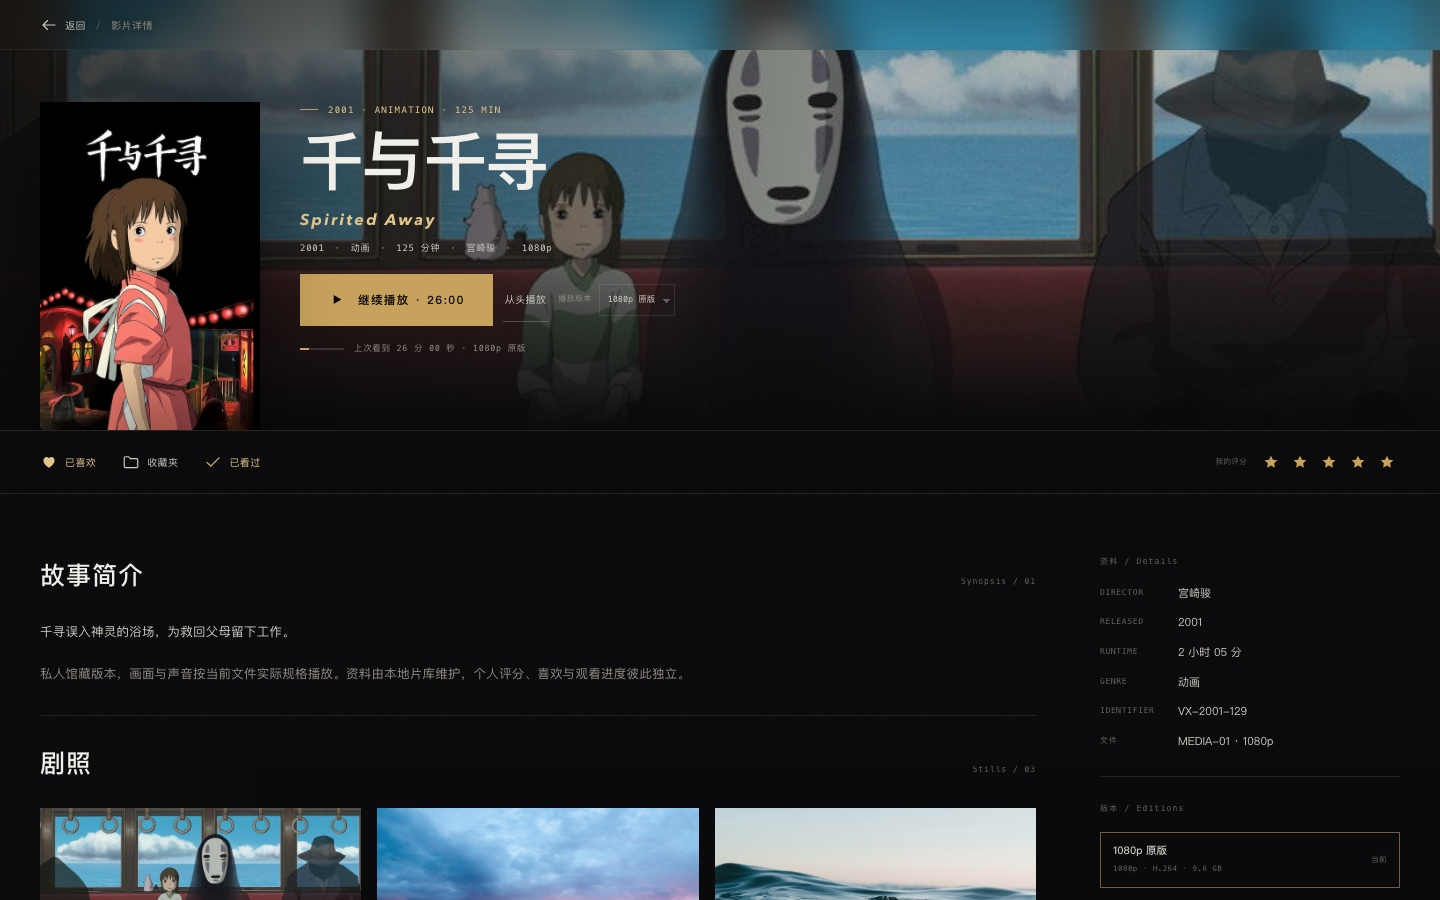
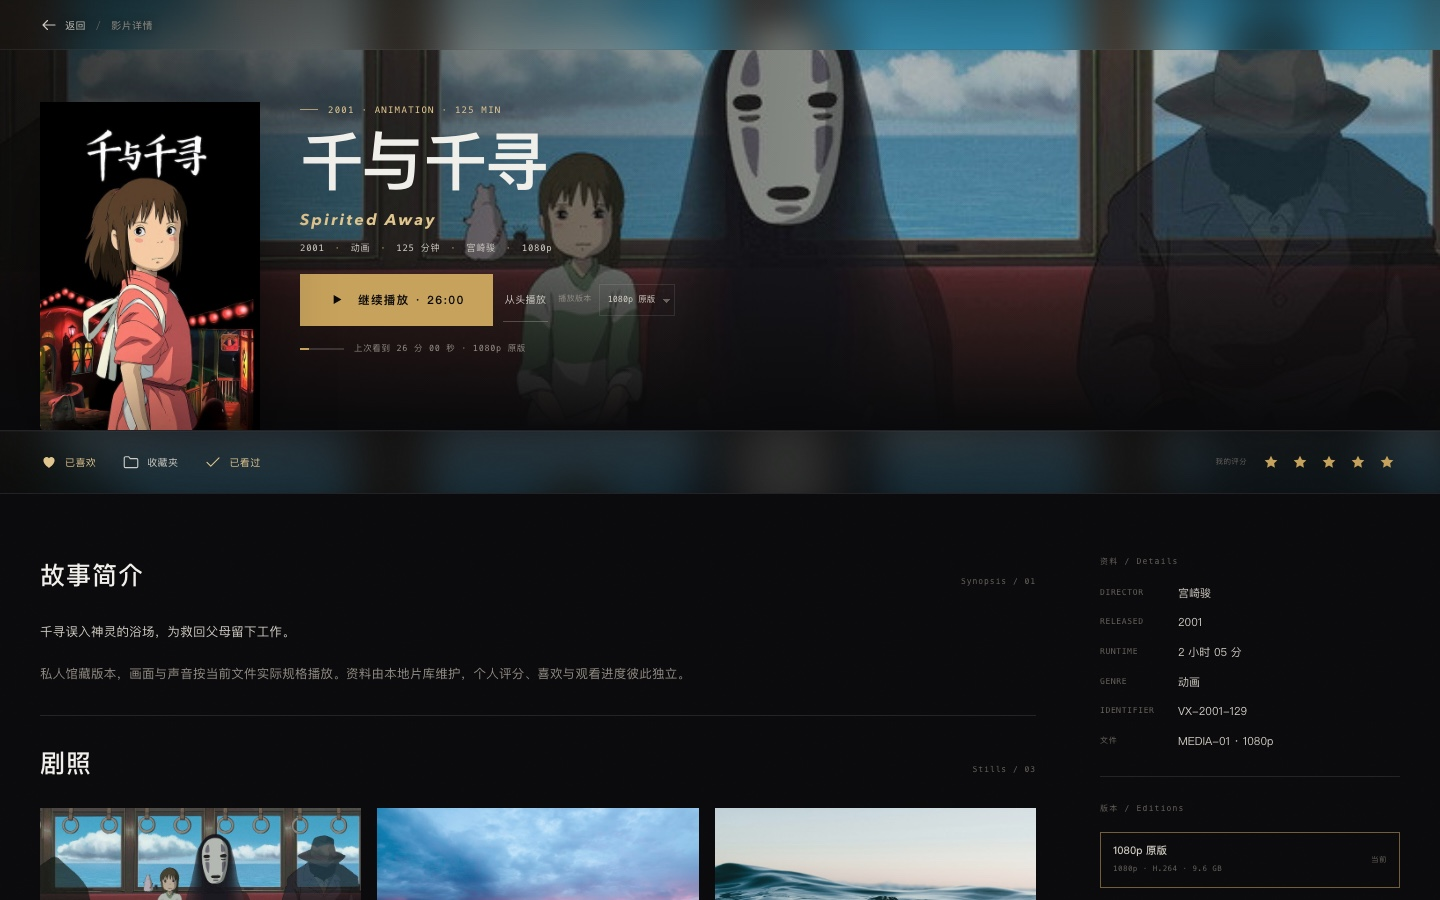
style(design): 详情个人条增加毛玻璃层

Changed region(s): [[0.2812, 0.4667, 0.7812, 0.56], [0.0312, 0.4667, 0.25, 0.56], [0.9375, 0.4667, 1.0, 0.56]]

diff --git a/design/2026-11-film-catalog/styles/web.css b/design/2026-11-film-catalog/styles/web.css
@@ -3440,6 +3440,8 @@ body.is-player .web-main {
 
 
 .detail-personal-bar {
+  position: relative;
+  isolation: isolate;
   max-width: var(--max-w);
   margin: 0 auto;
   min-height: 64px;
@@ -3448,8 +3450,31 @@ body.is-player .web-main {
   align-items: center;
   justify-content: space-between;
   gap: 24px;
+  overflow: hidden;
+  background: rgba(10, 10, 9, 0.5);
   border-top: 1px solid var(--dark-line);
   border-bottom: 1px solid var(--dark-line);
+  -webkit-backdrop-filter: blur(18px) saturate(1.2);
+  backdrop-filter: blur(18px) saturate(1.2);
+  box-shadow: inset 0 1px 0 rgba(241, 239, 234, 0.045);
+}
+
+.detail-personal-bar::before {
+  content: "";
+  position: absolute;
+  inset: -24px;
+  z-index: -1;
+  background-image: var(--personal-poster);
+  background-size: cover;
+  background-position: center 28%;
+  filter: blur(22px) brightness(0.55) saturate(1.15);
+  opacity: 0.42;
+  pointer-events: none;
+}
+
+.detail-personal-bar > * {
+  position: relative;
+  z-index: 1;
 }
 
 .detail-personal-bar .detail-tools {

diff --git a/design/2026-11-film-catalog/scripts/web.js b/design/2026-11-film-catalog/scripts/web.js
@@ -274,7 +274,7 @@
           </div>
         </div>
       </div>
-      <div class="detail-personal-bar">
+      <div class="detail-personal-bar" style="--personal-poster:url('${new URL(f.backdrop, location.href).href}')">
         <div class="detail-tools">
           <button data-detail-fav aria-pressed="${fav}">${icon(fav ? 'heart-fill' : 'heart', 16)} ${fav ? '已喜欢' : '喜欢'}</button>
           <button data-detail-collection>${icon('folder', 16)} 收藏夹</button>
